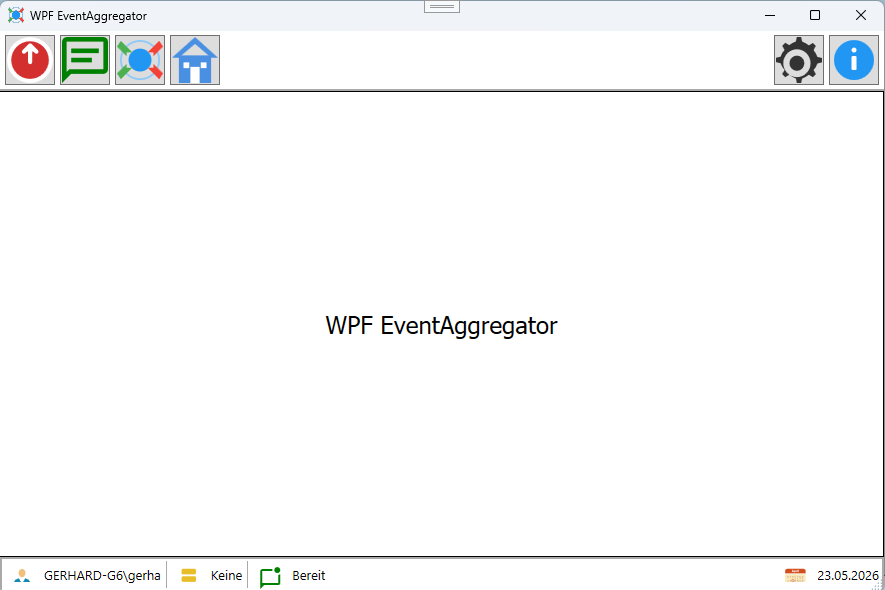
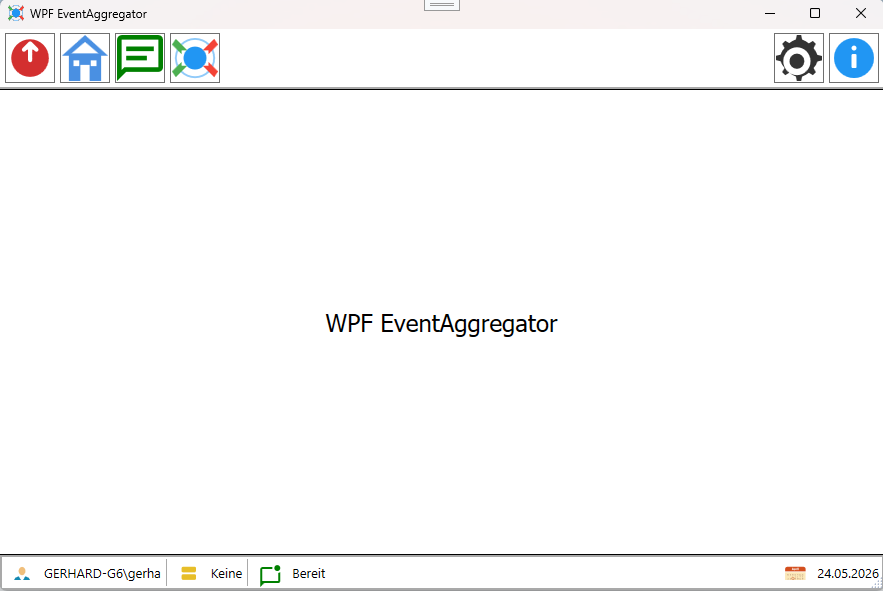
Release 1

Changed region(s): [[0.0, 0.0, 1.0, 1.0], [0.3669, 0.5186, 0.6421, 0.5797], [0.4587, 0.0, 0.5198, 0.0305]]

diff --git a/WPFEventAggregator/MainWindow.xaml b/WPFEventAggregator/MainWindow.xaml
@@ -153,7 +153,8 @@
                     Margin="5,0,0,0"
                     HorizontalAlignment="Left"
                     Command="{Binding Path=DemoDialogServiceCommand}"
-                    ToolTip="Demo für DialogService">
+                    ToolTip="Demo für DialogService"
+                    Visibility="Collapsed">
                     <Image Source="{StaticResource ResourceKey=IconDialog}" Stretch="Uniform" />
                 </Button>
 
@@ -164,7 +165,8 @@
                     HorizontalAlignment="Left"
                     Background="Transparent"
                     Command="{Binding Path=SendToCommand}"
-                    ToolTip="Demo für SendTo">
+                    ToolTip="Demo für SendTo"
+                    Visibility="Collapsed">
                     <Image Source="{StaticResource ResourceKey=IconOpenDialog}" Stretch="Uniform" />
                 </Button>
 

diff --git a/README.md b/README.md
@@ -6,11 +6,11 @@
 ![Version](https://img.shields.io/badge/Version-1.0.2026.7-yellow.svg)
 
 # Projekt
-Das Beispiel soll das Zusammenwirken der Kommunikation zwischen Klassen und UserControl in einer WPF Anwendung zeigen.
+Das Beispiel zum **EventAggregator** soll das Zusammenwirken der Kommunikation zwischen Klassen und UserControl in einer WPF Anwendung zeigen.
 <br/>
 <img src="WindowsMain.png" style="width:650px;"/>
 <br/>
-Es verwendet das EventAggregator Pattern, um die Kommunikation zwischen den Komponenten zu ermöglichen. Es gibt drei Klassen, die das IEventAggregator Interface implementieren: MainWindow, ContentLinksUC und ContentRechtsUC. Jede Klasse kann Nachrichten senden und empfangen, ohne direkt voneinander abhängig zu sein.\
+Es verwendet das **EventAggregator** Pattern, um die Kommunikation zwischen den Komponenten zu ermöglichen. Es gibt drei Klassen, die das IEventAggregator Interface implementieren: MainWindow, ContentLinksUC und ContentRechtsUC. Jede Klasse kann Nachrichten senden und empfangen, ohne direkt voneinander abhängig zu sein.\
 <br/>
 <img src="EventAggregator.jpg" style="width:650px;"/>
 
@@ -19,14 +19,45 @@ App.EventAgg.Subscribe<StatusEvent>(async (evt, ct) => this.OnUpdateStatusBar(ev
 ````
 Der Übergebene Typ z.B. `StatusEvent' in Subscribe gibt an, welche Art von Nachrichten die Klasse empfangen möchte. In diesem Beispiel abonnieren die Klassen auf Nachrichten vom Typ "StatusEvent". Wenn eine Nachricht dieses Typs gesendet wird, wird die Methode "OnUpdateStatusBar" aufgerufen, um die Statusleiste zu aktualisieren.
 
+# Features
+Der **EventAggregator** ist zum einen generisch, was bedeutet, dass er mit verschiedenen Nachrichtentypen arbeiten kann, und zum anderen asynchron, was bedeutet, dass die Nachrichtenverarbeitung nicht blockierend ist. Das ermöglicht eine flexible und effiziente Kommunikation zwischen den Komponenten der Anwendung. Die Klassen können Nachrichten senden, ohne sich um die Details der Empfänger kümmern zu müssen, und die Empfänger können Nachrichten empfangen, ohne sich um die Details der Sender kümmern zu müssen. Das fördert eine lose Kopplung und erleichtert die Wartbarkeit und Erweiterbarkeit der Anwendung.
+Damit ist diese variante des **EventAggregator** besonders in einem MVVM Umfeld geeignet.
+
+# Möglichkeiten
+Über den **EventAggregator** können Nachrichten mit einem bestimmten Typ gesendet werden, und alle Klassen, die diesen Typ abonnieren, erhalten die Nachricht. In diesem Beispiel gibt es zwei Nachrichten: "Nachricht von Links" und "Nachricht von Rechts". Wenn eine Nachricht gesendet wird, wird sie an alle Abonnenten weitergeleitet, die auf diesen Nachrichtentyp hören.
+
+Das Prinzip ist grundsätzlich immer das gleiche, egal ob einfache Typen oder komplexe Objekte als Nachrichten gesendet werden.
+
+## Registrieren von Nachrichten
+Bevor eine Klasse Nachrichten empfangen kann, muss sie sich für den entsprechenden Nachrichtentyp für `Subscribe` registrieren. In diesem Beispiel wird in der Klassen `MainWindow` für Nachrichten vom Typ "StatusEvent" registriert.
+````csharp
+App.EventAgg.Subscribe<StatusEvent>(async (evt, ct) => this.OnUpdateStatusBar(evt));
+````
+
+**Hinweis:**
+Die `Subscribe`-Methode wird ein Lambda-Ausdruck übergeben, der die Methode `OnUpdateStatusBar` aufruft, wenn eine Nachricht vom Typ "StatusEvent" empfangen wird. In diesem Fall wird die Statusleiste aktualisiert, um den Inhalt der empfangenen Nachricht anzuzeigen.
+In der Regel wird die Registrierung von Nachrichten in der Konstruktor oder in einer Initialisierungsmethode der Klasse durchgeführt, in dem sich auch die auszuführende Methode befinden.
+
+## Senden von Nachrichten
+Um eine Nachricht zu senden, wird die `Publish`-Methode des **EventAggregator** verwendet. In diesem Beispiel wird eine Nachricht vom Typ "StatusEvent" gesendet, wenn ein Button in einem der UserControls geklickt wird.
+````csharp
+if (App.EventAgg.IsSubscription<StatusEvent>() == true)
+{
+    await App.EventAgg.PublishAsync(new StatusEvent(Guid.NewGuid(), this.StatusMessage));
+}
+````
+
+## Beispiel für einfache Typen als Nachrichten
 Von den beiden UserControls ContentLinksUC und ContentRechtsUC gibt es jeweils einen Button, der eine Nachricht sendet, wenn er geklickt wird. Die Nachricht enthält Informationen darüber, von welchem UserControl sie gesendet wurde. Wenn die Nachricht empfangen wird, wird die Statusleiste in MainWindow aktualisiert, um anzuzeigen, welche Nachricht empfangen wurde.
 <img src="Demo_A.png" style="width:650px;"/>
 
-
-# Möglichkeiten
-Über den EventAggregator können Nachrichten mit einem bestimmten Typ gesendet werden, und alle Klassen, die diesen Typ abonnieren, erhalten die Nachricht. In diesem Beispiel gibt es zwei Nachrichten: "Nachricht von Links" und "Nachricht von Rechts". Wenn eine Nachricht gesendet wird, wird sie an alle Abonnenten weitergeleitet, die auf diesen Nachrichtentyp hören.
-
+## Beispiel mit komplexe Objekte als Nachrichten
 Es ist aber auch möglich, Komplexe Objekte als Nachrichten zu senden, um mehr Informationen zu übermitteln. In diesem Beispiel werden einfache Strings verwendet, aber es könnte auch ein benutzerdefiniertes Objekt mit mehreren Eigenschaften sein.
+in dem Beispielwird ein `DataTable` als Nachricht gesendet, um eine Tabelle mit Daten zu übermitteln. Wenn die Nachricht empfangen wird, könnte die Statusleiste aktualisiert werden, um anzuzeigen, dass eine Tabelle empfangen wurde, und die Daten könnten in einer DataGrid oder einem anderen Steuerelement angezeigt werden.
+<img src="Demo_B.png" style="width:650px;"/>
+
 
 ![Version](https://img.shields.io/badge/Version-1.0.2026.2-yellow.svg)
 - Migration auf NET 10
+- Weiterentwicklung mit neuen Features
+- Neues Design und Demoprogramm